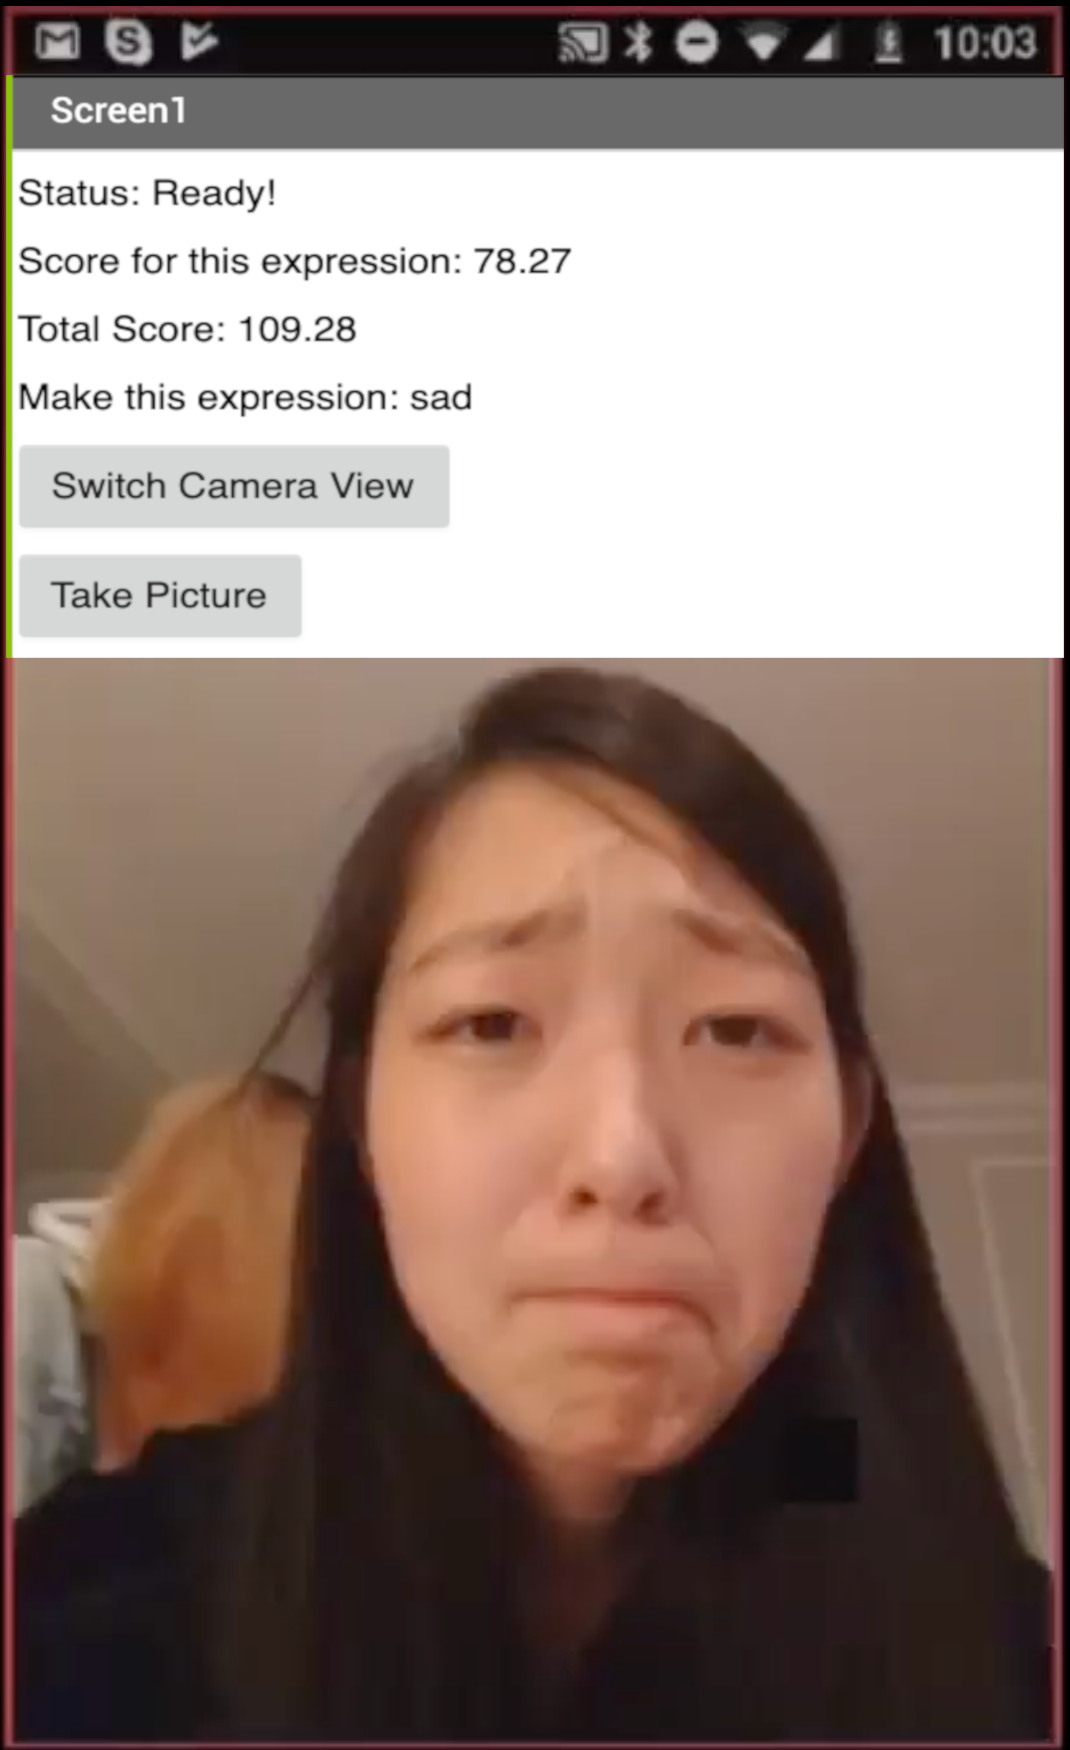
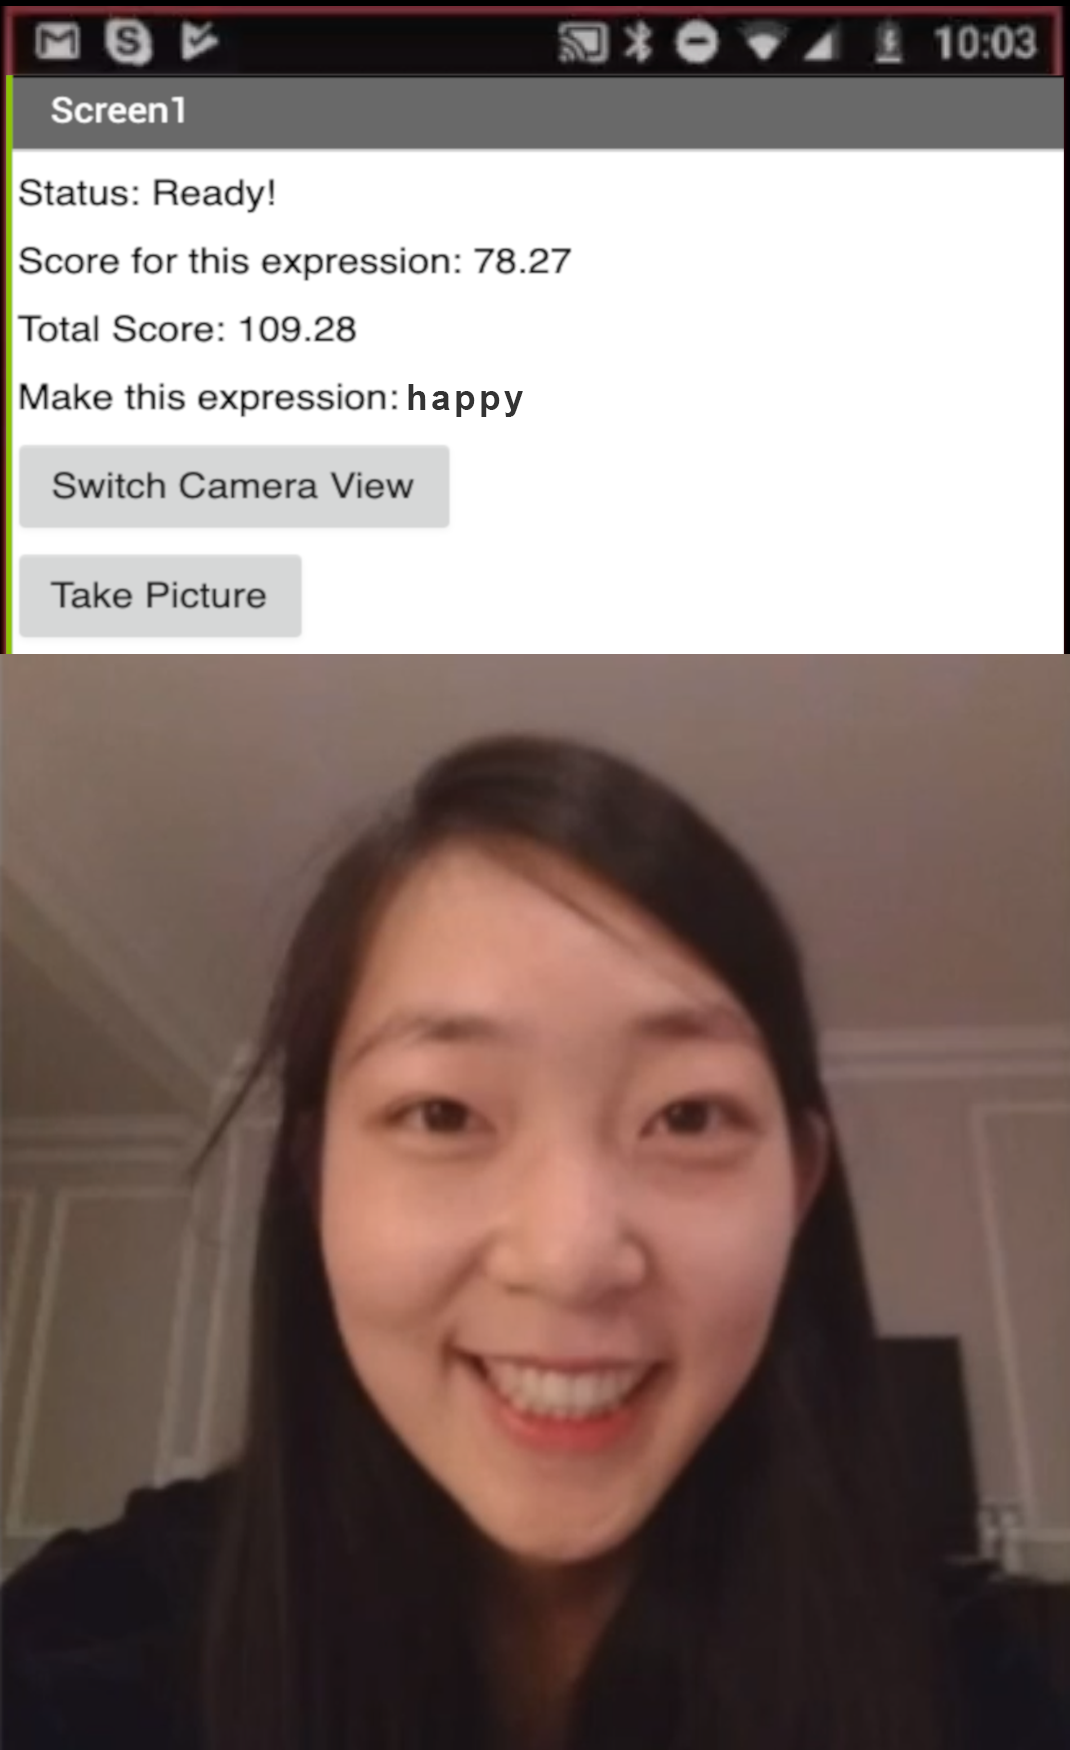
fixed in response to Selim's feedback

Changed region(s): [[0.0, 0.3703, 1.0, 1.0], [0.3701, 0.216, 0.4935, 0.2469]]

diff --git a/AI/tutorials/expression-match.html b/AI/tutorials/expression-match.html
@@ -52,11 +52,12 @@
     <h3>About this Tutorial</h3>
     <div>
       <p>
-      This tutorial is Part 3 of the <a href="http://appinventor.mit.edu/explore/resources/ai/personal-image-classifier" target="_blank">Personal Image Classifier</a> tutorials. In this tutorial, you will use the model you trained in <a href="http://appinventor.mit.edu/explore/resources/ai/personal-image-classifier-part1" target="_blank">Personal Image Classifier Part 1</a> to make a game app where the user has to try to match the given expression to gain points.
+      This tutorial is Part 3 of the <a href="http://appinventor.mit.edu/explore/resources/ai/personal-image-classifier" target="_blank">Personal Image Classifier</a> tutorials. In this tutorial, you will use the model you trained in <a href="http://appinventor.mit.edu/explore/resources/ai/personal-image-classifier-part1" target="_blank">Personal Image Classifier Part 1</a> to make a game app where the user has to try to match the given facial expression to gain points.
       </p>
             <img class="enlargeImage" src="../images/expression-match/em-demo.png" alt="screenshot of demo">
-      <p style="margin-top: 10px;">Each of the labels in your trained model will be displayed, one at a time, and the user will be asked to match that expression. The user will gain points based on the returned confidence level for their image against the model. For example, in the image above, the user matched &quot;sad&quot; with a confidence level of 78.27% so she scored 78.27 points.</p>
+      <p style="margin-top: 10px;">Each of the labels in your trained model will be displayed, one at a time, and the user will be asked to match that facial expression. The user will gain points based on the returned confidence level for their image against the model. For example, in the image above, the user matched &quot;happy&quot; with a confidence level of 78.27% so she scored 78.27 points.</p>
       <p>See how high you can score by matching the displayed expression!</p> 
+      <strong>NOTE: The Personal Image Classifier extension will not work on all mobile devices. Follow Steps 1-3 of the tutorial to see if your mobile device's hardware is sufficient to make this app.</strong>
     </div>
 
     <h3>Connect your App</h3>
@@ -105,21 +106,21 @@
                       <br/>
                 </div>
           </div><br />
-          <p>Then add the PersonalImageClassifer and WebViewer components. </p><p>Set the WebViewer in the PersonalImageClassifier properties, and upload the model trained in Part 1 as the model for the PersonalImageClassifier.
+          <p>Then add the <span class="icon" alt="lookextension"></span> PersonalImageClassifer and <span class="icon" alt="webviewer"></span> WebViewer components. </p><p>Set the <span class="icon" alt="webviewer"></span> WebViewer in the <span class="icon" alt="lookextension"></span> PersonalImageClassifier properties, and upload the model trained in Part 1 as the model for the <span class="icon" alt="lookextension"></span> PersonalImageClassifier.
           <div class="hintContainer">
    
               <button>Show me how</button>
                 <div class="hint hideHint">
                 <h4>Add PersonalImageClassifier Component</h4>
                 <p>
-                The PersonalImageClassifier is an extension component that has been preloaded into the project for you. To add it to your app, drag the extension into the Viewer to add it to your app. It will appear at the bottom of the screen, because it is a non-visible component.</p>
+                The <span class="icon" alt="lookextension"></span> PersonalImageClassifier is an extension component that has been preloaded into the project for you. To add it to your app, drag the extension into the Viewer to add it to your app. It will appear at the bottom of the screen, because it is a non-visible component.</p>
               <img class="enlargeImage" src="../images/expression-match/add-pic-extension.gif" alt="upload the new model file"> <br/>
   
               <h4>Add a WebViewer component </h4>
-              <p>The PersonImageClassifier extension requires a <span class="icon" alt="webviewer"></span> WebViewer component and a model file to work. Drag in a <span class="icon" alt="button"></span> WebViewer component from the User Interface drawer. Change its Width and Height properties to “Fill Parent”.</p>
+              <p>The <span class="icon" alt="lookextension"></span> PersonImageClassifier extension requires a <span class="icon" alt="webviewer"></span> WebViewer component and a model file to work. Drag in a <span class="icon" alt="button"></span> WebViewer component from the User Interface drawer. Change its Width and Height properties to “Fill Parent”.</p>
               <img class="enlargeImage" src="../images/expression-match/add-webviewer.gif" alt="add webviewer component"> <br/>
               <h4>Connect WebViewer to PersonalImageClassifier </h4>
-            <p>Click on PersonalImageClassifier1 in the Components panel, and select WebViewer1 as the WebViewer property.</p>
+            <p>Click on <strong>PersonalImageClassifier1</strong> in the Components panel, and select <strong>WebViewer1</strong> as the WebViewer property.</p>
             <img class="enlargeImage" src="../images/expression-match/set-webviewer-property.gif" alt="set webviewer property for personalimageclassifier"> <br/>
 
             <h4>Upload model for PersonalImageClassifier </h4>
@@ -135,7 +136,7 @@
         <h4>2. Start Coding</h4>
         <p>Switch to the Blocks Editor by pressing the Blocks button in the top right corner of your screen.</p>
         <img class="enlargeImage" src="../images/expression-match/switch-blocks.png" alt="switch to the blocks editor"> <br/>
-        <p>Code the <span class="control">PersonalImageClassifier1.ClassifierReady</span> event, which is triggered when the Classifier is ready to start classifying images. Display the status as "Ready!" in StatusLabel.</p>
+        <p>Code the <span class="control">PersonalImageClassifier1.ClassifierReady</span> event, which is triggered when the Classifier is ready to start classifying images. Display the status as "Ready!" in <strong>StatusLabel</strong>.</p>
         <p>Also code the <span class="control">PersonalImageClassifier1.Error</span> event, which is triggered if there is an error with the Classifier. Display the error returned in <strong>StatusLabel</strong>.</p>
         <div class="hintContainer">
           <button>Show me how</button>
@@ -147,7 +148,7 @@
 
       <div class="tutorialContentPage">
         <h4>3. Try the app!</h4>
-        <p>It's a good time to stop and test that the PersonalImageClassifier extension works on your mobile device. Under the <strong>Connect</strong> menu, choose <strong>AI Companion</strong>. Start the companion app on your device, and scan the QR code when it appears on your computer. You should see the status label change to “Status: Ready!” when the model is done loading.</p><p><strong>Note:</strong> if you do not get the "Ready!" status, the PersonalImageClassifier extension may not work correctly with your device.</p>
+        <p>It's a good time to stop and test that the <span class="icon" alt="lookextension"></span> PersonalImageClassifier extension works on your mobile device. Under the <strong>Connect</strong> menu, choose <strong>AI Companion</strong>. Start the companion app on your device, and scan the QR code when it appears on your computer. You should see the status label change to “Status: Ready!” when the model is done loading.</p><p><strong>Note:</strong> if you do not get the "Ready!" status, the PersonalImageClassifier extension may not work correctly with your device.</p>
         <img class="enlargeImage" src="../images/expression-match/ai-companion.png" alt="connect the ai companion">
       </div> 
 
@@ -261,12 +262,12 @@
 
       <div class="tutorialContentPage">
         <h4>9. Check for more labels</h4>
-        <p>Check if there are more labels (expressions) in the model. If so, prompt the player to match the next expression by calling <span class="procedures">playGame</span>. Otherwise, end the game by hiding <strong>SwitchCameraButton</strong> and <strong>CameraButton</strong>, making <strong>ResetButton</strong> visible, and displaying a message that the game is over in <strong>StatusLabel</strong>. 
+        <p>Check if there are more labels (expressions) in the model. If so, prompt the player to match the next expression by calling <span class="procedures">playGame</span>. Otherwise, end the game by hiding <strong>SwitchCameraButton</strong> and <strong>CameraButton</strong>, making <strong>ResetButton</strong> visible, and displaying a message that the game is over in <strong>ExpressionLabel</strong>. 
         </p>
            <div class="hintContainer">
             <button>Show me how</button>
             <div class="hint hideHint">         
-              <p>Add an <span class="control">if then else</span> block. Compare <span class="variables">currentIndex</span> to <span class="variables">numLabels</span> to see if you have reached the end of the list of labels. If not, increment <span class="variables">currentIndex</span> by 1 and call <span class="procedures">playGame</span> again. If you’ve reached the end of the list, hide the game  Buttons, show ResetButton, and use the StatusLabel at the top of the app screen for an end of game message.</p>
+              <p>Add an <span class="control">if then else</span> block. Compare <span class="variables">currentIndex</span> to <span class="variables">numLabels</span> to see if you have reached the end of the list of labels. If not, increment <span class="variables">currentIndex</span> by 1 and call <span class="procedures">playGame</span> again. If you’ve reached the end of the list, hide the game  Buttons, show ResetButton, and use the ExpressionLabel for an end of game message.</p>
               <img class="enlargeImage" src="../images/expression-match/increment-index.png" alt="increment index in list">
             </div>
            </div>
